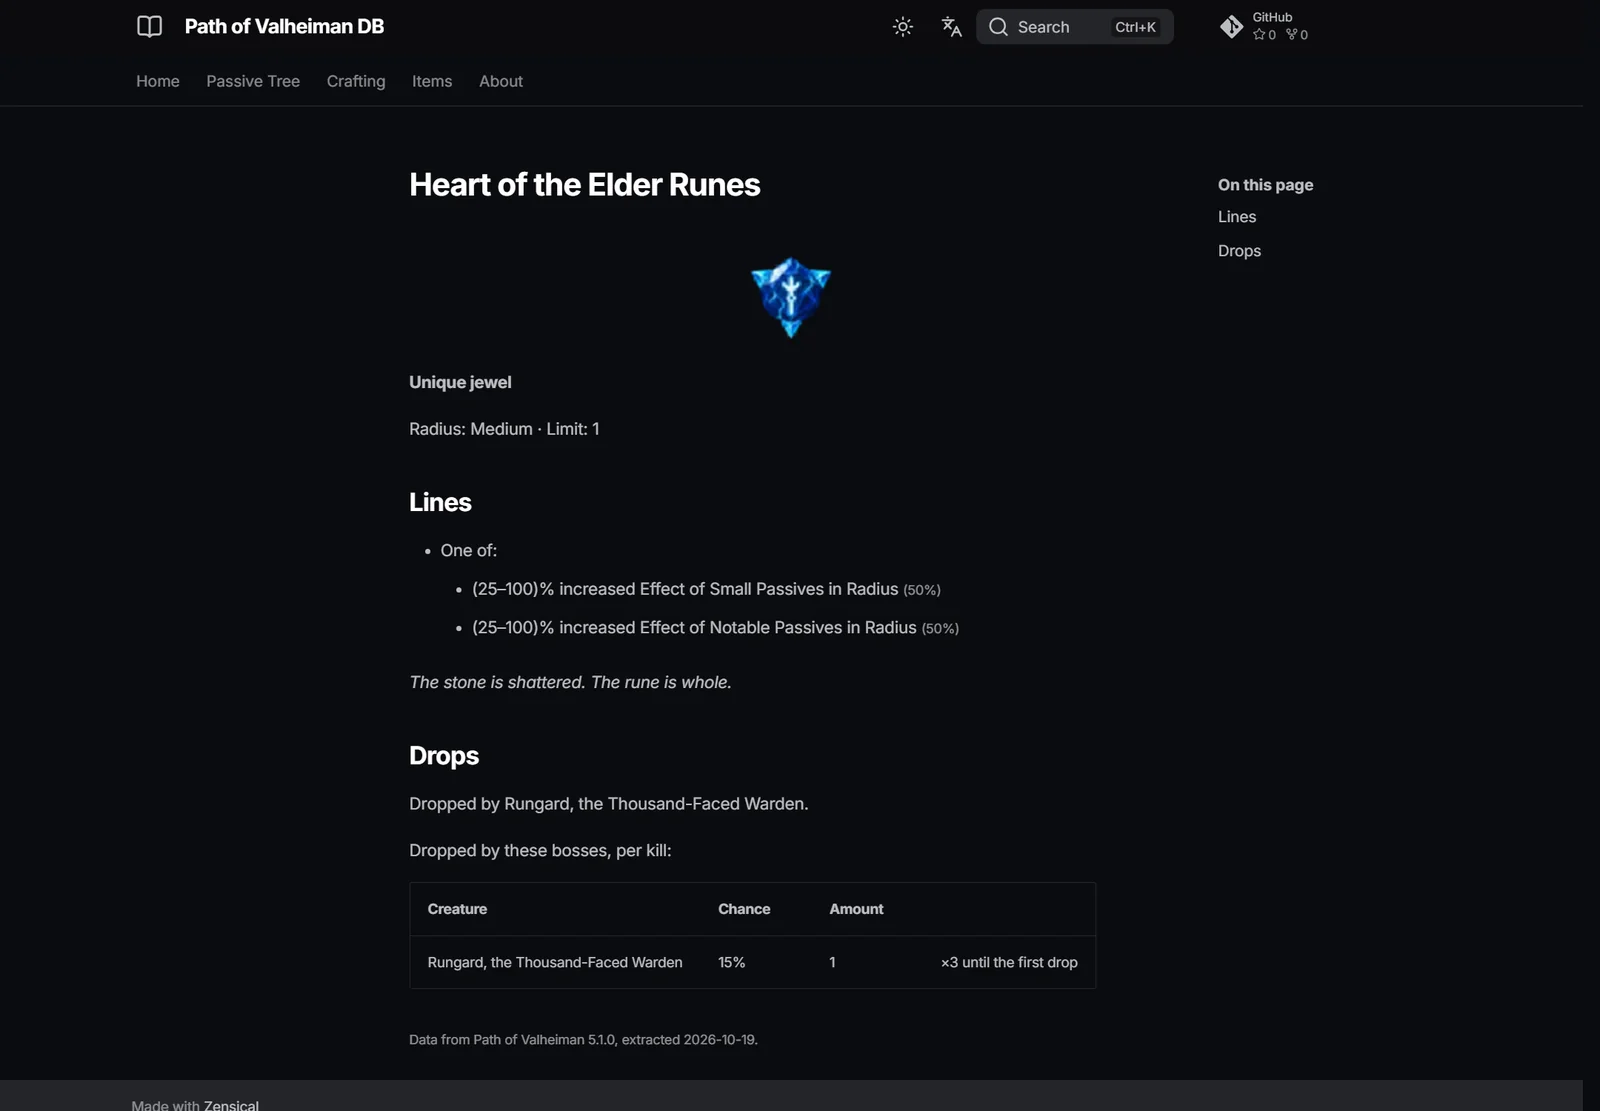
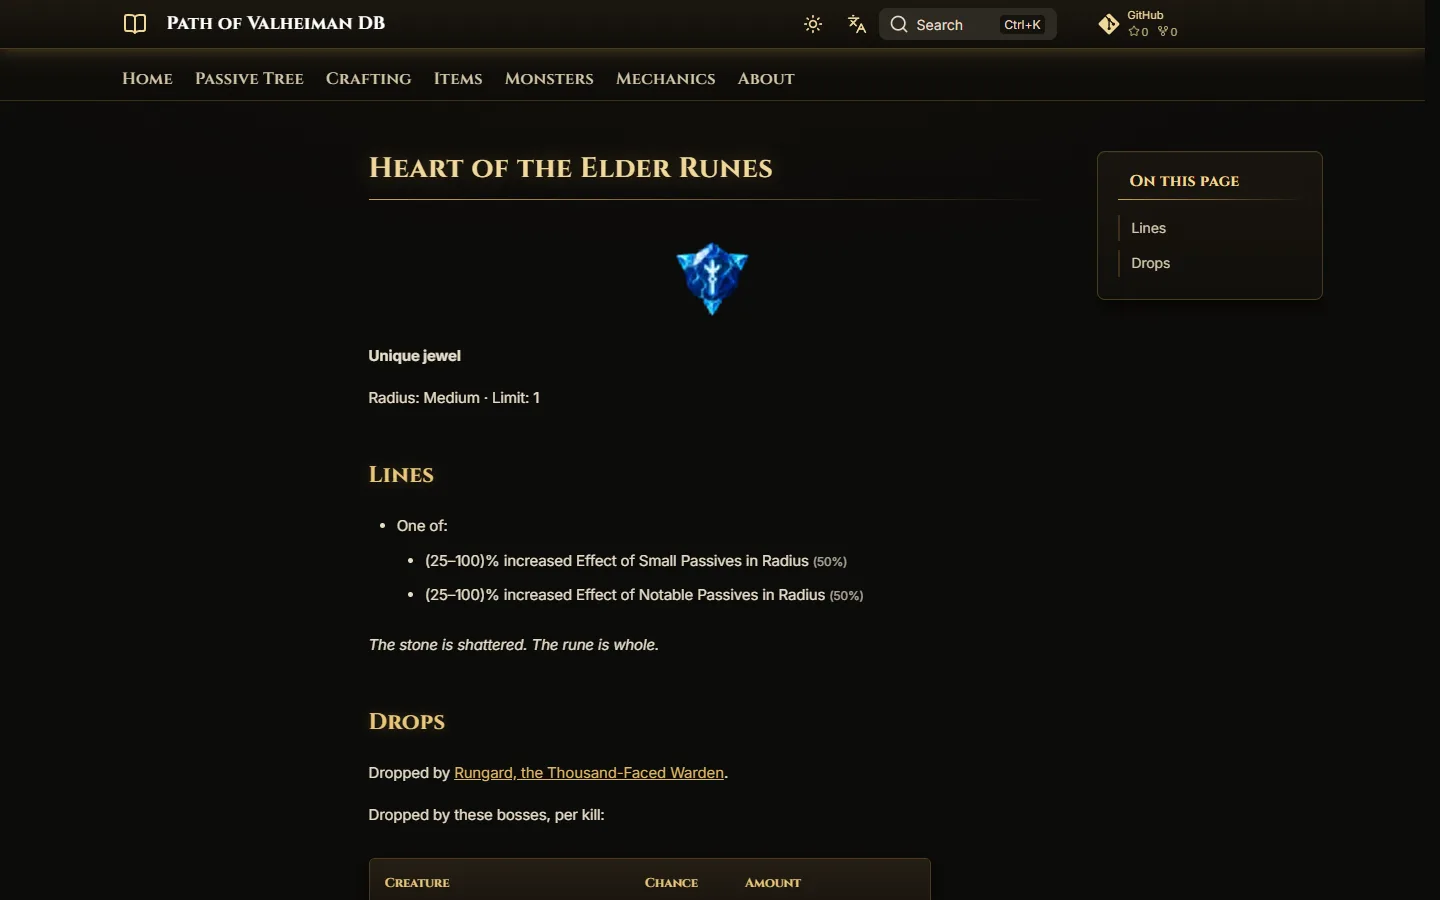
README: new screenshots of the site (Forge theme, monsters, bosses, mechanics, uniques)

diff --git a/README.md b/README.md
@@ -16,10 +16,14 @@ Every page is generated from the mod's own files, so the wiki matches each relea
 
 | | |
 |---|---|
-| ![Keystones with their in-game icons and effects](.github/screenshots/keystones.webp) | ![Craft tree viewer with a craft notable and its mastery options](.github/screenshots/crafting.webp) |
-| **Keystones, notables and masteries**, with the game's icons and wording | **Crafting**: the craft tree, professions, quests and masteries |
-| ![An item base and the mods that can roll on it, with weights](.github/screenshots/item-base.webp) | ![A unique jewel with its lines, radius and drop sources](.github/screenshots/unique-jewel.webp) |
-| **Items**: every base with stats, recipe and its full mod pool | **Uniques, jewels and currency**, with drop sources |
+| ![Keystones with their in-game icons and effects](.github/screenshots/keystones.webp) | ![Craft tree viewer with professions and notables](.github/screenshots/crafting.webp) |
+| **Keystones, notables and masteries**, with the game's icons and wording | **Crafting**: the craft tree, professions, quests, masteries and buildings |
+| ![An item base with its stats, recipe and mods](.github/screenshots/item-base.webp) | ![Unique items with their icons, lines and drop sources](.github/screenshots/uniques.webp) |
+| **Items**: every base with stats, recipe and its full mod pool | **Uniques, jewels and currency**, with their lines and where they drop |
+| ![Monster modifiers with their icons and values](.github/screenshots/monster-mods.webp) | ![A boss page: summoning, health and damage, mechanics and drops](.github/screenshots/boss.webp) |
+| **Monsters**: modifiers, rarity, and the mod's creatures | **Bosses**: how to summon them, how they fight and what they drop |
+| ![The Critical hit keyword with its formulas](.github/screenshots/mechanics.webp) | ![A unique jewel with its lines, radius and drop sources](.github/screenshots/unique-jewel.webp) |
+| **Mechanics**: the game's formulas, checked against the code with every patch | **Every item** has its own page: lines, radius, drop sources and links |
 
 ## How it works
 
